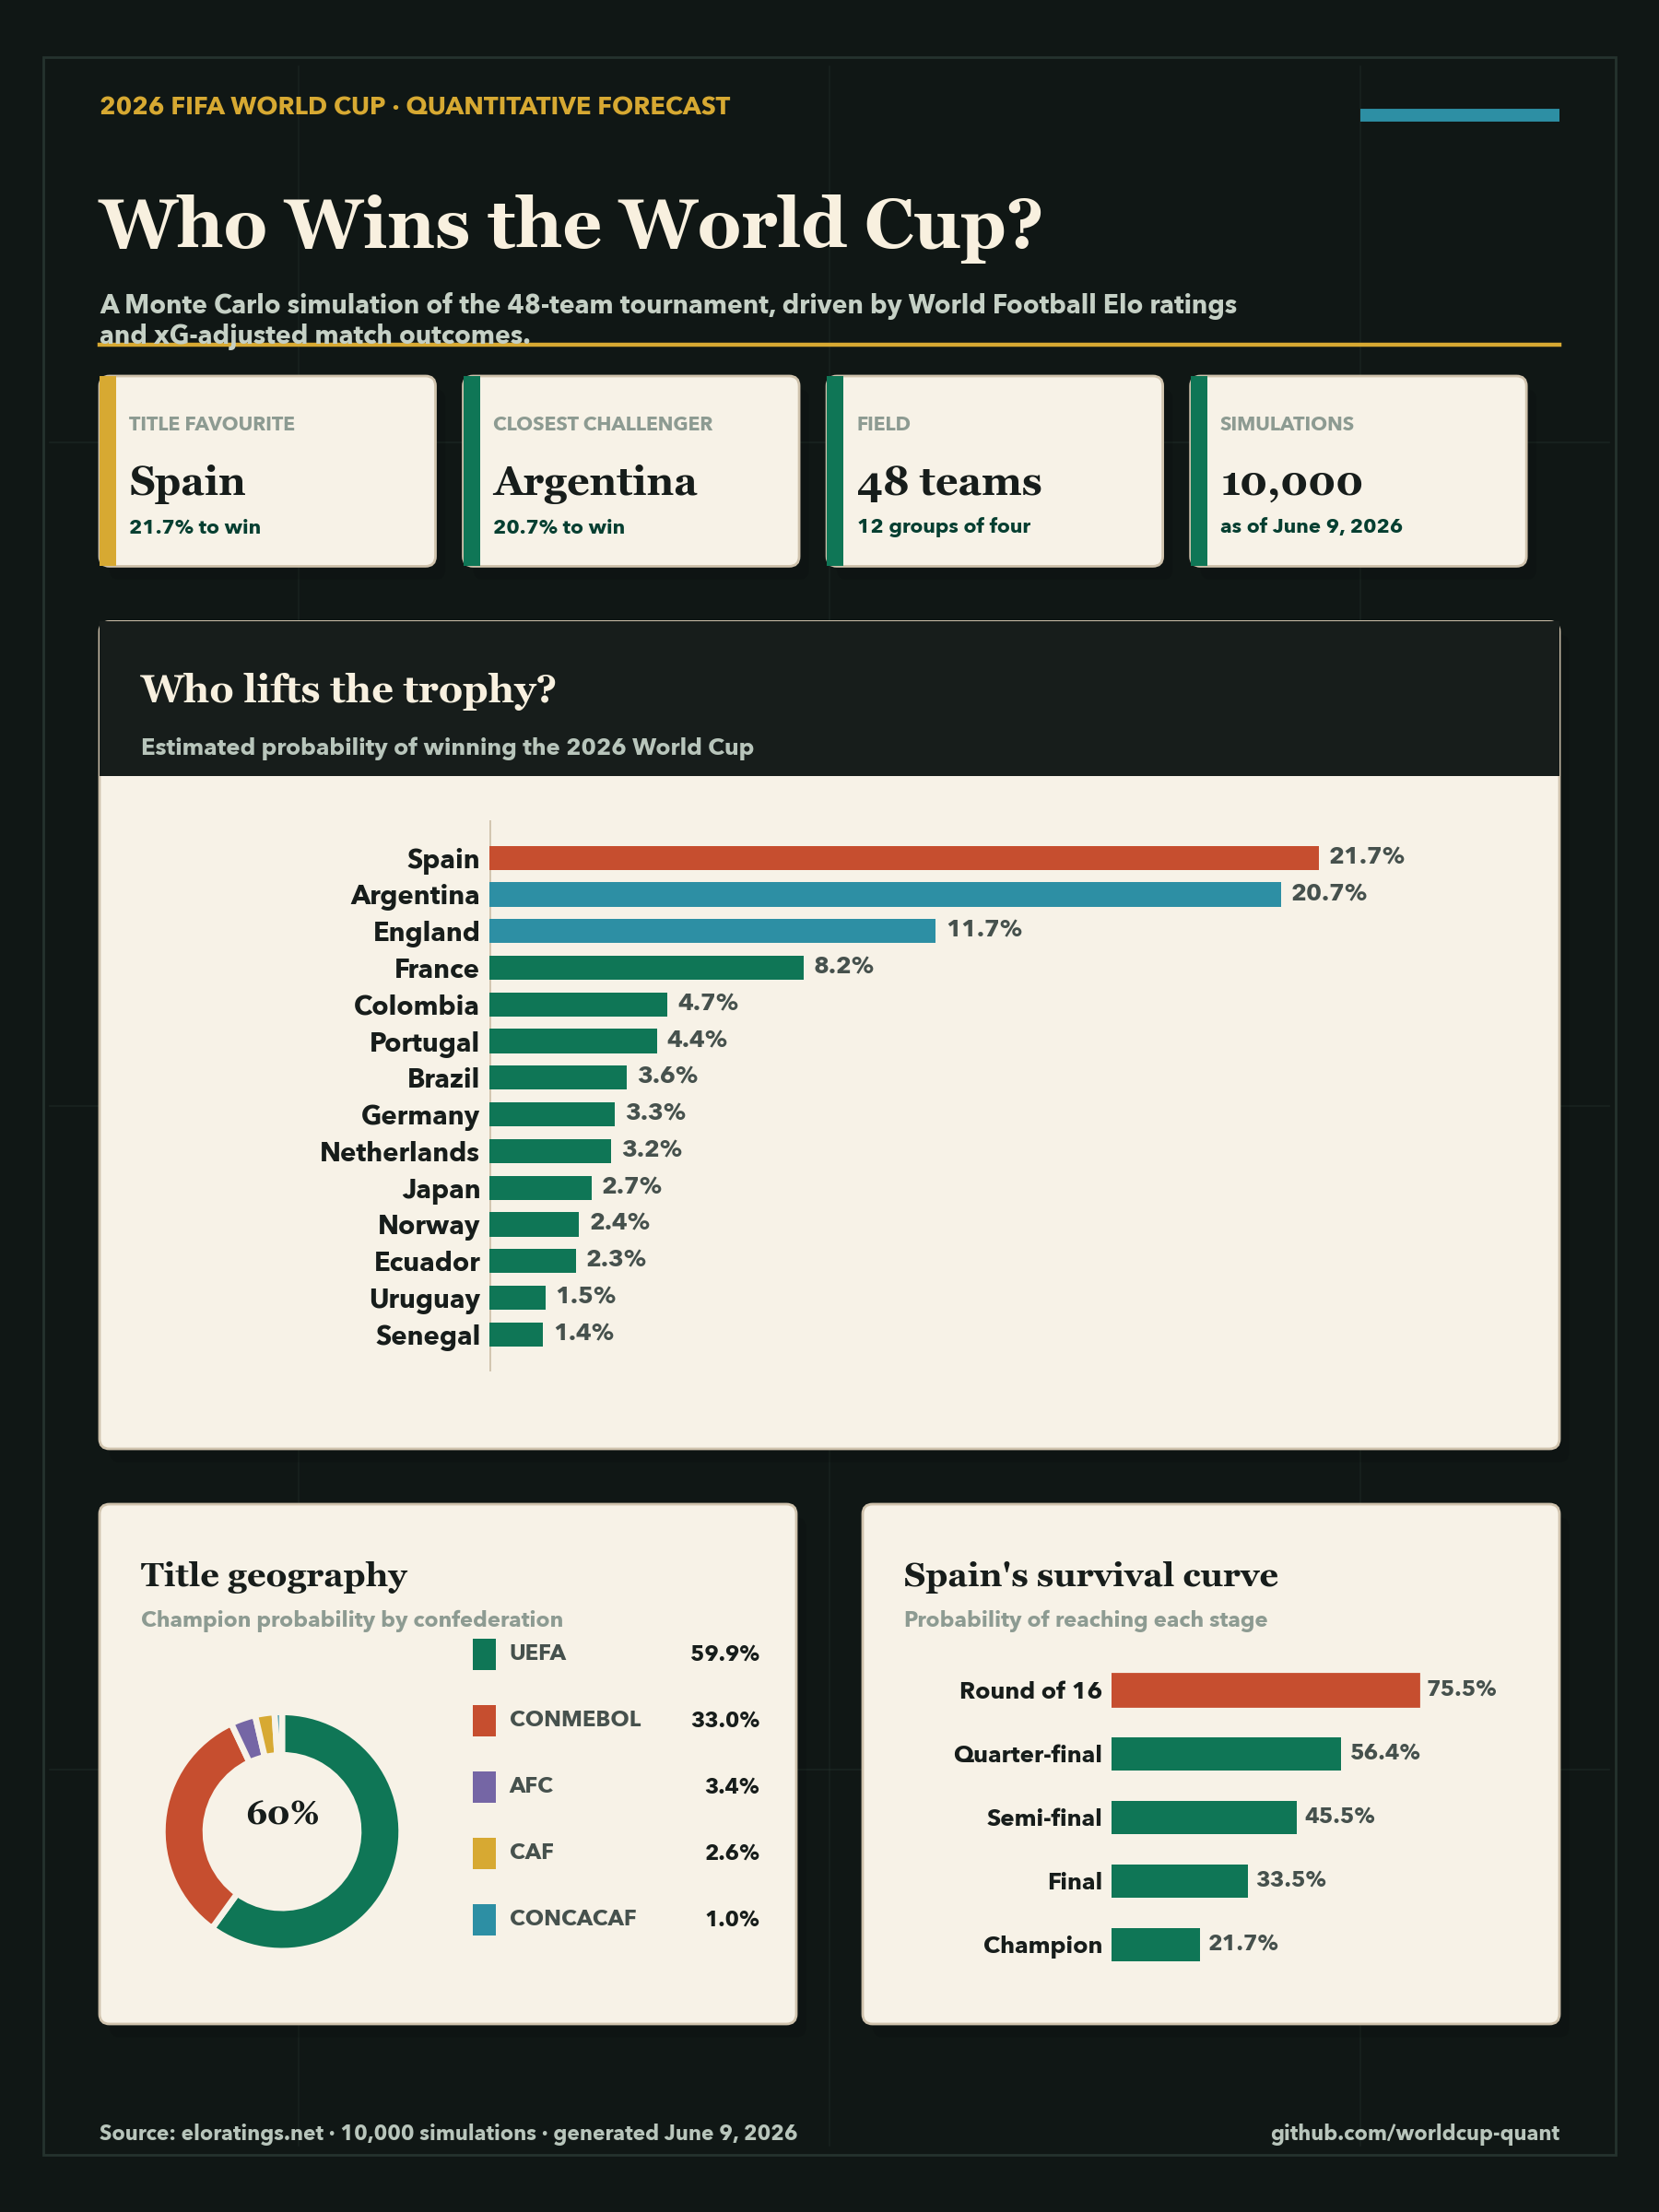
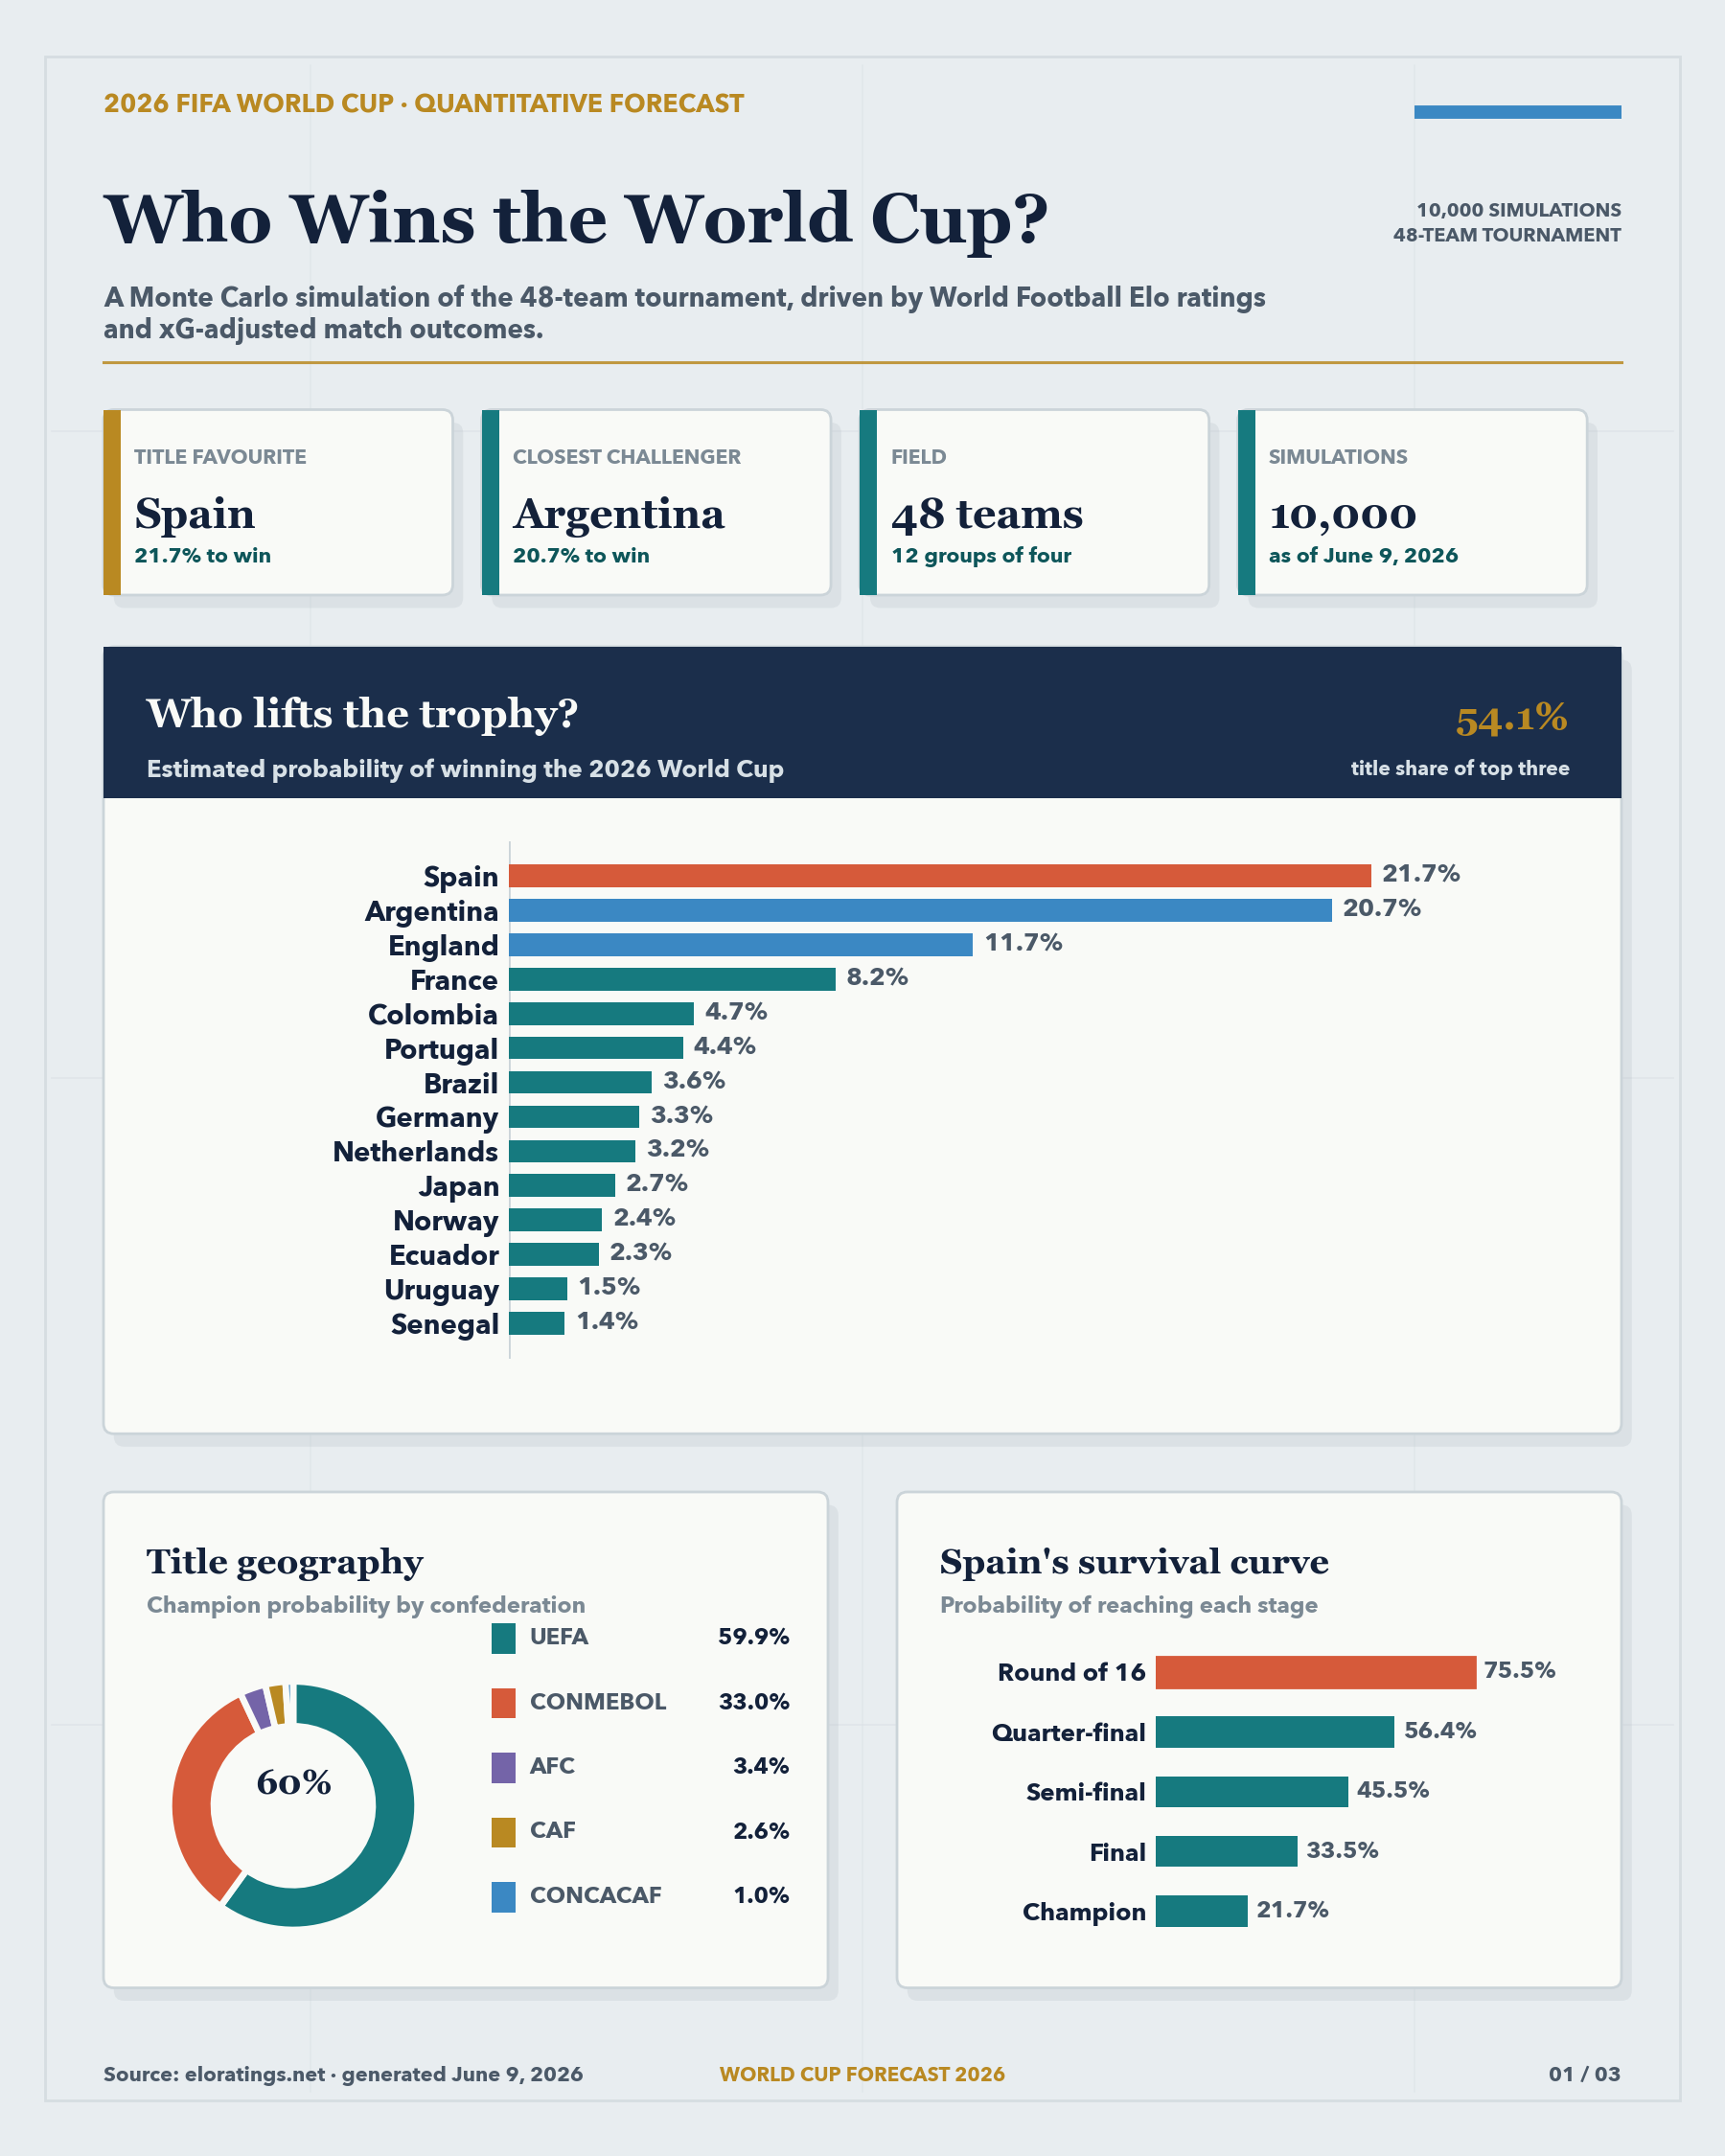
Change infographic design

diff --git a/scripts/make_infographic.py b/scripts/make_infographic.py
@@ -35,34 +35,37 @@ PROJECT_ROOT = Path(__file__).resolve().parents[1]
 REPORTS_DIR = PROJECT_ROOT / "reports"
 DATA_DIR = PROJECT_ROOT / "data"
 
-# Editorial sports palette: dark, grounded, and less template-like.
-PAPER = "#101715"
-CARD = "#f7f2e7"
-CARD_ALT = "#e9dfcf"
-INK = "#171d1b"
-INK2 = "#46514d"
-MUTED = "#8d9b92"
-LINE = "#d0c3ad"
-ACCENT = "#0f7656"
-ACCENT_INK = "#063f31"
-ACCENT_SOFT = "#d7e5dc"
-CLAY = "#c64e2f"
-GOLD = "#d7a932"
-TEAL = "#2d8fa4"
-PAPER_LINE = "#25332e"
+# Publication palette: cleaner, cooler, and less earthy.
+PAPER = "#e8edf0"
+CARD = "#f9faf7"
+CARD_ALT = "#edf1ec"
+INK = "#13213a"
+INK2 = "#4b5968"
+MUTED = "#7b8994"
+LINE = "#cbd4d9"
+ACCENT = "#167a7f"
+ACCENT_INK = "#0e565a"
+ACCENT_SOFT = "#dcebec"
+PANEL_HEAD = "#1b2e4b"
+CLAY = "#d65a3a"
+GOLD = "#b98922"
+TEAL = "#3b88c3"
+PAPER_LINE = "#d6dde1"
 
 # Categorical palette for confederations (muted, warm, non-clashing).
 CONF_COLORS = {
-    "UEFA": "#0f7656",
-    "CONMEBOL": "#c64e2f",
-    "CAF": "#d7a932",
-    "CONCACAF": "#2d8fa4",
-    "AFC": "#7566a5",
-    "OFC": "#77a869",
-    "Other": "#9b9488",
+    "UEFA": "#167a7f",
+    "CONMEBOL": "#d65a3a",
+    "CAF": "#b98922",
+    "CONCACAF": "#3b88c3",
+    "AFC": "#7464a8",
+    "OFC": "#5f9d78",
+    "Other": "#88919a",
 }
 
-PAGE_W, PAGE_H = 9.0, 12.0  # inches (portrait poster)
+# 4:5 portrait works well for LinkedIn feeds/carousels and still drops neatly
+# into research reports as a full-page figure plate.
+PAGE_W, PAGE_H = 9.0, 11.25
 
 
 def resolve_font(candidates: list[str], fallback: str) -> str:
@@ -115,7 +118,7 @@ def new_page() -> plt.Figure:
         plt.Rectangle((0.026, 0.026), 0.948, 0.948, transform=fig.transFigure,
                       facecolor="none", edgecolor=PAPER_LINE, linewidth=1.0, zorder=-8)
     )
-    # Quiet pitch/grid lines give the pages texture without using decorative blobs.
+    # Quiet pitch/grid lines give the pages texture without looking decorative.
     for yy in (0.20, 0.50, 0.80):
         fig.add_artist(
             plt.Line2D([0.03, 0.97], [yy, yy], transform=fig.transFigure,
@@ -137,9 +140,9 @@ def panel(fig, x, y, w, h, *, facecolor=CARD, edgecolor=LINE, lw=1.0, radius=0.0
         h,
         boxstyle=f"round,pad=0,rounding_size={radius}",
         transform=fig.transFigure,
-        facecolor="#070b0a",
+        facecolor="#81909a",
         edgecolor="none",
-        alpha=0.18,
+        alpha=0.12,
         mutation_aspect=PAGE_W / PAGE_H,
         zorder=-1,
         clip_on=False,
@@ -162,23 +165,27 @@ def panel(fig, x, y, w, h, *, facecolor=CARD, edgecolor=LINE, lw=1.0, radius=0.0
     return box
 
 
-def header(fig, eyebrow: str, title: str, subtitle: str) -> None:
-    fig.text(0.06, 0.948, eyebrow.upper(), color=GOLD, fontsize=9.8,
+def header(fig, eyebrow: str, title: str, subtitle: str, kicker: str) -> None:
+    fig.text(0.06, 0.948, eyebrow.upper(), color=GOLD, fontsize=9.6,
              fontweight="bold", family=SANS)
-    fig.text(0.06, 0.912, title, color="#f8f0df", fontsize=27, family=SERIF, fontweight="bold",
+    fig.text(0.06, 0.912, title, color=INK, fontsize=26, family=SERIF, fontweight="bold",
              va="top")
-    fig.text(0.06, 0.868, subtitle, color="#c5d0c5", fontsize=10.2, family=SANS, va="top")
-    line = plt.Line2D([0.06, 0.94], [0.844, 0.844], transform=fig.transFigure,
-                      color=GOLD, lw=1.6)
+    fig.text(0.06, 0.868, subtitle, color=INK2, fontsize=10.0, family=SANS, va="top")
+    fig.text(0.94, 0.906, kicker.upper(), color=INK2, fontsize=7.2, family=SANS,
+             fontweight="bold", ha="right", va="top", linespacing=1.35)
+    line = plt.Line2D([0.06, 0.94], [0.832, 0.832], transform=fig.transFigure,
+                      color=GOLD, lw=1.1, alpha=0.85)
     fig.add_artist(line)
     fig.add_artist(plt.Line2D([0.82, 0.94], [0.948, 0.948], transform=fig.transFigure,
                               color=TEAL, lw=5.0, solid_capstyle="butt"))
 
 
-def footer(fig, text: str) -> None:
-    fig.text(0.06, 0.035, text, color="#b8c5bb", fontsize=8.2, family=SANS, va="center")
-    fig.text(0.94, 0.035, "github.com/worldcup-quant", color="#b8c5bb", fontsize=8.2,
-             family=SANS, va="center", ha="right")
+def footer(fig, text: str, page: str) -> None:
+    fig.text(0.06, 0.037, text, color=INK2, fontsize=7.8, family=SANS, va="center")
+    fig.text(0.50, 0.037, "WORLD CUP FORECAST 2026", color=GOLD, fontsize=7.4,
+             family=SANS, va="center", ha="center", fontweight="bold")
+    fig.text(0.94, 0.037, page, color=INK2, fontsize=7.8, family=SANS,
+             va="center", ha="right", fontweight="bold")
 
 
 def axes_in(fig, x, y, w, h):
@@ -204,7 +211,7 @@ def kpi_strip(fig, results, meta, generated) -> None:
         ("Simulations", f"{meta['iterations']:,}", f"as of {generated}"),
     ]
     x0, w, gap = 0.06, 0.2025, 0.0167
-    y, h = 0.744, 0.086
+    y, h = 0.724, 0.086
     for i, (label, value, note) in enumerate(cells):
         x = x0 + i * (w + gap)
         panel(fig, x, y, w, h)
@@ -220,16 +227,21 @@ def kpi_strip(fig, results, meta, generated) -> None:
 
 
 def champion_bars(fig, results, top_n=14) -> None:
-    x, y, w, h = 0.06, 0.345, 0.88, 0.374
+    x, y, w, h = 0.06, 0.335, 0.88, 0.365
     panel(fig, x, y, w, h)
     fig.patches.append(
         plt.Rectangle((x, y + h - 0.070), w, 0.070, transform=fig.transFigure,
-                      facecolor=INK, edgecolor="none", zorder=1)
+                      facecolor=PANEL_HEAD, edgecolor="none", zorder=1)
     )
-    fig.text(x + 0.025, y + h - 0.023, "Who lifts the trophy?", color="#f8f0df", fontsize=15,
+    fig.text(x + 0.025, y + h - 0.023, "Who lifts the trophy?", color=CARD, fontsize=15,
              family=SERIF, fontweight="bold", va="top")
     fig.text(x + 0.025, y + h - 0.052, "Estimated probability of winning the 2026 World Cup",
-             color="#b8c5bb", fontsize=9.2, va="top")
+             color="#d7e0e6", fontsize=9.2, va="top")
+    top3 = sum(r["champion_probability"] for r in results[:3])
+    fig.text(x + w - 0.030, y + h - 0.025, pct(top3), color=GOLD, fontsize=14.5,
+             family=SERIF, fontweight="bold", ha="right", va="top")
+    fig.text(x + w - 0.030, y + h - 0.052, "title share of top three", color="#d7e0e6",
+             fontsize=7.6, ha="right", va="top", fontweight="bold")
 
     ax = axes_in(fig, x + 0.235, y + 0.035, w - 0.30, h - 0.125)
     teams = [r["team"] for r in results[:top_n]][::-1]
@@ -252,7 +264,7 @@ def champion_bars(fig, results, top_n=14) -> None:
 
 
 def confederation_donut(fig, results, conf_by_team) -> None:
-    x, y, w, h = 0.06, 0.085, 0.42, 0.235
+    x, y, w, h = 0.06, 0.078, 0.42, 0.230
     panel(fig, x, y, w, h)
     fig.text(x + 0.025, y + h - 0.026, "Title geography", color=INK, fontsize=13,
              family=SERIF, fontweight="bold", va="top")
@@ -290,7 +302,7 @@ def confederation_donut(fig, results, conf_by_team) -> None:
 
 
 def favourite_funnel(fig, results) -> None:
-    x, y, w, h = 0.52, 0.085, 0.42, 0.235
+    x, y, w, h = 0.52, 0.078, 0.42, 0.230
     panel(fig, x, y, w, h)
     fav = results[0]
     fig.text(x + 0.025, y + h - 0.026, f"{fav['team']}'s survival curve", color=INK, fontsize=13,
@@ -326,12 +338,13 @@ def render_page1(fig, results, meta, conf_by_team, generated) -> None:
         "Who Wins the World Cup?",
         "A Monte Carlo simulation of the 48-team tournament, driven by World Football Elo "
         "ratings\nand xG-adjusted match outcomes.",
+        f"{meta['iterations']:,} simulations\n48-team tournament",
     )
     kpi_strip(fig, results, meta, generated)
     champion_bars(fig, results)
     confederation_donut(fig, results, conf_by_team)
     favourite_funnel(fig, results)
-    footer(fig, f"Source: eloratings.net · {meta['iterations']:,} simulations · generated {generated}")
+    footer(fig, f"Source: eloratings.net · generated {generated}", "01 / 03")
 
 
 # --------------------------------------------------------------------------- #
@@ -341,24 +354,28 @@ def _blend(t: float) -> tuple:
     """Blend paper -> accent green for a sequential heatmap cell."""
     import matplotlib.colors as mcolors
 
-    c0 = mcolors.to_rgb("#e7dfcf")
-    c1 = mcolors.to_rgb("#0f7656")
+    c0 = mcolors.to_rgb("#e7edf0")
+    c1 = mcolors.to_rgb(ACCENT)
     t = max(0.0, min(1.0, t)) ** 0.7
     return tuple(c0[i] + (c1[i] - c0[i]) * t for i in range(3))
 
 
 def progression_matrix(fig, results, top_n=14) -> None:
-    x, y, w, h = 0.06, 0.46, 0.88, 0.39
+    x, y, w, h = 0.06, 0.455, 0.88, 0.385
     panel(fig, x, y, w, h)
     fig.patches.append(
         plt.Rectangle((x, y + h - 0.067), w, 0.067, transform=fig.transFigure,
-                      facecolor=INK, edgecolor="none", zorder=1)
+                      facecolor=PANEL_HEAD, edgecolor="none", zorder=1)
     )
-    fig.text(x + 0.025, y + h - 0.024, "Knockout pressure map", color="#f8f0df",
+    fig.text(x + 0.025, y + h - 0.024, "Knockout pressure map", color=CARD,
              fontsize=15, family=SERIF, fontweight="bold", va="top")
     fig.text(x + 0.025, y + h - 0.052,
              "Probability of reaching each stage. Darker means more likely.",
-             color="#b8c5bb", fontsize=9.2, va="top")
+             color="#d7e0e6", fontsize=9.2, va="top")
+    fig.text(x + w - 0.030, y + h - 0.027, "SURVIVAL", color=GOLD, fontsize=8.0,
+             ha="right", va="top", fontweight="bold")
+    fig.text(x + w - 0.030, y + h - 0.049, "round-by-round odds", color="#d7e0e6",
+             fontsize=7.3, ha="right", va="top", fontweight="bold")
 
     cols = [
         ("Round of 16", "round_of_16_probability"),
@@ -399,7 +416,7 @@ def progression_matrix(fig, results, top_n=14) -> None:
 
 
 def group_favourites(fig, structure, results) -> None:
-    x, y, w, h = 0.06, 0.085, 0.88, 0.345
+    x, y, w, h = 0.06, 0.078, 0.88, 0.340
     panel(fig, x, y, w, h)
     fig.text(x + 0.025, y + h - 0.026, "Group favourites", color=INK, fontsize=15,
              family=SERIF, fontweight="bold", va="top")
@@ -431,7 +448,7 @@ def group_favourites(fig, structure, results) -> None:
                           transform=fig.transFigure, facecolor=ACCENT_INK, edgecolor="none",
                           zorder=2)
         )
-        fig.text(cx + 0.016, cy + cell_h - 0.014, f"GROUP {group['group']}", color="#f8f0df",
+        fig.text(cx + 0.016, cy + cell_h - 0.014, f"GROUP {group['group']}", color=CARD,
                  fontsize=7.1, fontweight="bold", va="center", zorder=3)
 
         ranked = sorted(
@@ -449,7 +466,7 @@ def group_favourites(fig, structure, results) -> None:
                      va="center", ha="right", fontweight="bold")
             fig.patches.append(
                 plt.Rectangle((cx + 0.016, yy - 0.012), cell_w - 0.056, 0.005,
-                              transform=fig.transFigure, facecolor="#d8cbb8",
+                              transform=fig.transFigure, facecolor=LINE,
                               edgecolor="none", zorder=2)
             )
             fig.patches.append(
@@ -467,27 +484,32 @@ def render_page2(fig, results, structure, meta, generated) -> None:
         "The Path Through the Bracket",
         "Each team's chance of surviving to the round of 16, quarter-finals, semi-finals, "
         "final and title.",
+        "Stage survival\nTop 14 teams",
     )
     progression_matrix(fig, results)
     group_favourites(fig, structure, results)
-    footer(fig, f"Source: eloratings.net · {meta['iterations']:,} simulations · generated {generated}")
+    footer(fig, f"Source: eloratings.net · {meta['iterations']:,} simulations", "02 / 03")
 
 
 # --------------------------------------------------------------------------- #
 # Page 3 - model credibility / backtests
 # --------------------------------------------------------------------------- #
 def backtest_panel(fig, tournaments) -> None:
-    x, y, w, h = 0.06, 0.40, 0.88, 0.45
+    x, y, w, h = 0.06, 0.395, 0.88, 0.445
     panel(fig, x, y, w, h)
     fig.patches.append(
         plt.Rectangle((x, y + h - 0.070), w, 0.070, transform=fig.transFigure,
-                      facecolor=INK, edgecolor="none", zorder=1)
+                      facecolor=PANEL_HEAD, edgecolor="none", zorder=1)
     )
-    fig.text(x + 0.025, y + h - 0.024, "Backtested under pressure", color="#f8f0df",
+    fig.text(x + 0.025, y + h - 0.024, "Backtested under pressure", color=CARD,
              fontsize=15, family=SERIF, fontweight="bold", va="top")
     fig.text(x + 0.025, y + h - 0.052,
              "Re-running the model with pre-tournament ratings only — no hindsight.",
-             color="#b8c5bb", fontsize=9.2, va="top")
+             color="#d7e0e6", fontsize=9.2, va="top")
+    fig.text(x + w - 0.030, y + h - 0.027, "3 TOURNAMENTS", color=GOLD, fontsize=8.0,
+             ha="right", va="top", fontweight="bold")
+    fig.text(x + w - 0.030, y + h - 0.049, "2014 · 2018 · 2022", color="#d7e0e6",
+             fontsize=7.3, ha="right", va="top", fontweight="bold")
 
     rows = []
     for t in tournaments:
@@ -530,7 +552,7 @@ def backtest_panel(fig, tournaments) -> None:
         if i % 2 == 0:
             fig.patches.append(
                 plt.Rectangle((x + 0.025, cy - row_h * 0.34), w - 0.05, row_h * 0.68,
-                              transform=fig.transFigure, facecolor="#efe6d7",
+                              transform=fig.transFigure, facecolor=ACCENT_SOFT,
                               edgecolor="none", zorder=1)
             )
         fig.text(x + 0.04, cy, name, color=INK, fontsize=11, family=SERIF,
@@ -547,7 +569,7 @@ def backtest_panel(fig, tournaments) -> None:
 
 
 def takeaways_panel(fig, tournaments) -> None:
-    x, y, w, h = 0.06, 0.085, 0.88, 0.285
+    x, y, w, h = 0.06, 0.078, 0.88, 0.280
     panel(fig, x, y, w, h)
     fig.text(x + 0.025, y + h - 0.026, "Receipts", color=INK, fontsize=14,
              family=SERIF, fontweight="bold", va="top")
@@ -584,11 +606,12 @@ def render_page3(fig, backtests, meta, generated) -> None:
         "Does the Model Actually Work?",
         "Backtests replay each past tournament from its pre-tournament ratings and score the "
         "forecast.",
+        "Historical replay\nNo hindsight",
     )
     tournaments = backtests.get("tournaments", [])
     backtest_panel(fig, tournaments)
     takeaways_panel(fig, tournaments)
-    footer(fig, "Backtests use Elo ratings frozen the day before each tournament kicked off.")
+    footer(fig, "Source: pre-tournament Elo ratings", "03 / 03")
 
 
 # --------------------------------------------------------------------------- #